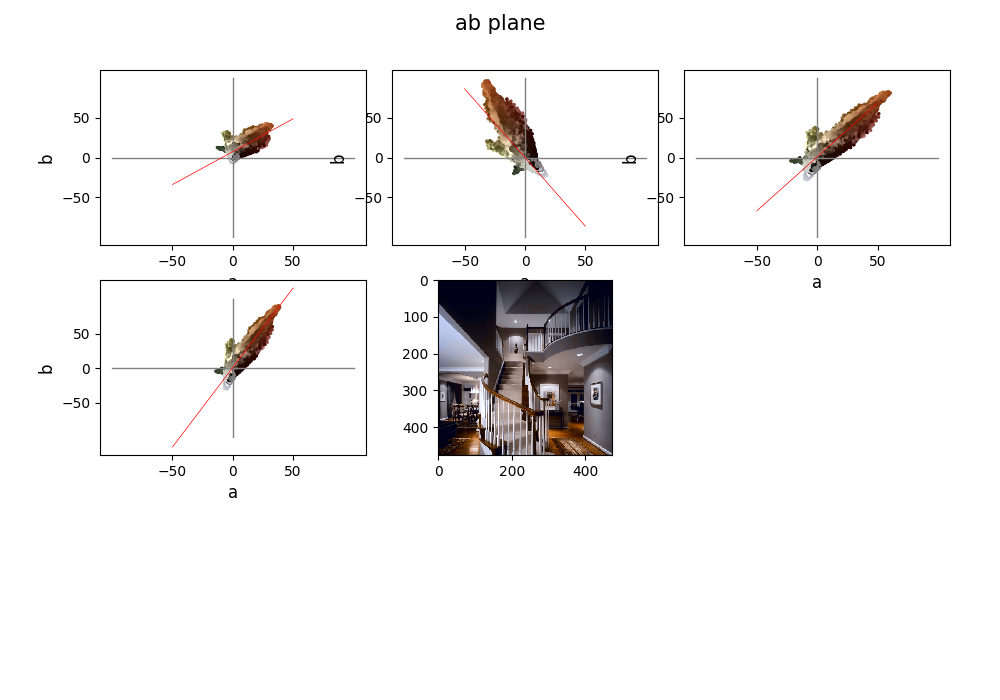
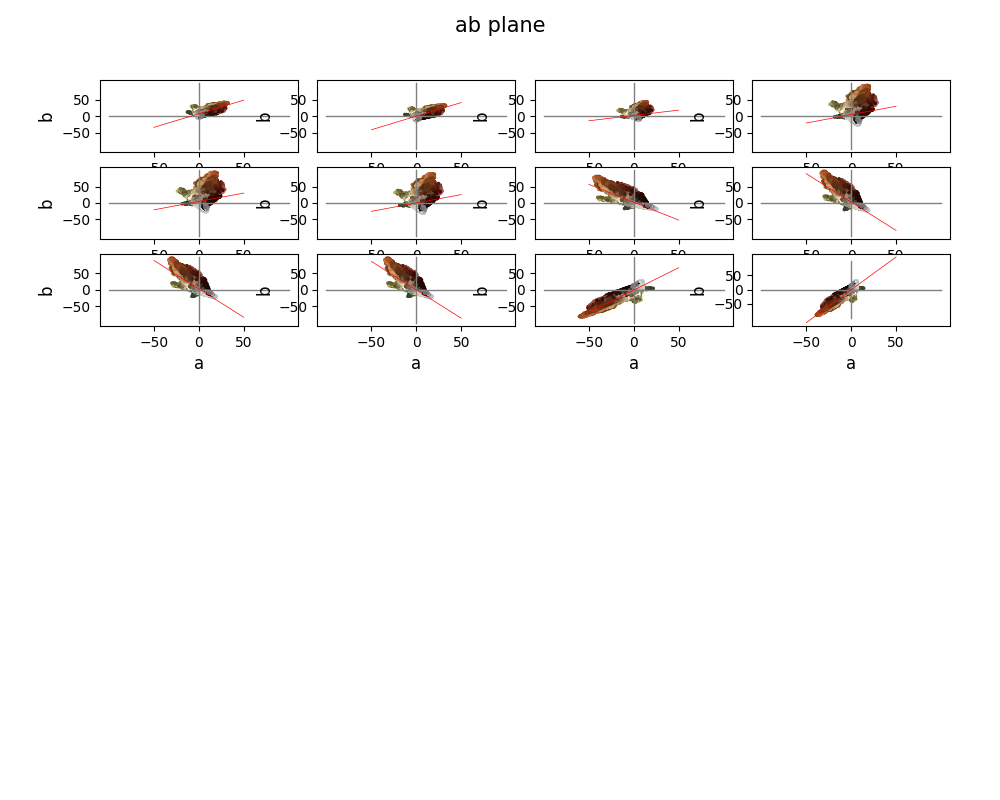
修复异常，正式1.0版

diff --git a/image/scatter.py b/image/scatter.py
@@ -1,6 +1,7 @@
 # -*- coding: utf-8 -*-
 
 import cv2
+import math
 import os
 import numpy as np
 import matplotlib.pyplot as plt
@@ -115,7 +116,7 @@ def scatterImage(image_file, sourceFile, sourceCoef, sourceWidth, sourceHeight):
     global circle
     circle = 0
 
-    fig = plt.figure(figsize=(10, 7))
+    fig = plt.figure(figsize=(10, 8))
     fig.subplots_adjust(left=0.1, bottom=0.05, right=0.95, top=0.9, wspace=0.1, hspace=0.2)
     font_size = 15
     fig.suptitle("ab plane", fontsize=font_size)
@@ -140,21 +141,22 @@ def scatterImage(image_file, sourceFile, sourceCoef, sourceWidth, sourceHeight):
         sMatrix, sLab = scaling(rMatrix, sourceWidth, sourceHeight)
         intercept4, coef_4 = LR(sLab)
 
-        # abplane = fig.add_subplot(HOLD0, HOLD1, HOLD1 * circle + 1)
-        # # 不再使用旧的lab，在循环中被污染
-        # # intercept_temp, coef_temp = LR(convert2LabRGB(image)[0])
-        # plot2D(abplane, lab, rgb, intercept, coef_)
-        #
-        # abplane = fig.add_subplot(HOLD0, HOLD1, HOLD1 * circle + 2)
-        # plot2D(abplane, tLab, rgb, intercept2, coef_2)
-        #
-        # abplane = fig.add_subplot(HOLD0, HOLD1, HOLD1 * circle + 3)
-        # plot2D(abplane, rLab, rgb, intercept3, coef_3)
-        #
-        # abplane = fig.add_subplot(HOLD0, HOLD1, HOLD1 * circle + 4)
-        # plot2D(abplane, sLab, rgb, intercept4, coef_4)
+        abplane = fig.add_subplot(HOLD0, HOLD1, HOLD1 * circle + 1)
+        # 不再使用旧的lab，在循环中被污染
+        # intercept_temp, coef_temp = LR(convert2LabRGB(image)[0])
+        plot2D(abplane, lab, rgb, intercept, coef_)
+
+        abplane = fig.add_subplot(HOLD0, HOLD1, HOLD1 * circle + 2)
+        plot2D(abplane, tLab, rgb, intercept2, coef_2)
+
+        abplane = fig.add_subplot(HOLD0, HOLD1, HOLD1 * circle + 3)
+        plot2D(abplane, rLab, rgb, intercept3, coef_3)
+
+        abplane = fig.add_subplot(HOLD0, HOLD1, HOLD1 * circle + 4)
+        plot2D(abplane, sLab, rgb, intercept4, coef_4)
 
         circle += 1
+        lab = sLab
 
         if (np.abs(np.arctan(sourceCoef) - np.arctan(coef_4)) * 180 / 3.1415926) < 1:
             print 'finish'
@@ -163,22 +165,22 @@ def scatterImage(image_file, sourceFile, sourceCoef, sourceWidth, sourceHeight):
         # print sLab
         print '444'
 
-        lab = sLab
 
 
-    abplane = fig.add_subplot(331)
-    # 不再使用旧的lab，在循环中被污染
-    intercept_temp, coef_temp = LR(convert2LabRGB(image)[0])
-    plot2D(abplane, convert2LabRGB(image)[0], rgb, intercept_temp, coef_temp)
 
-    abplane = fig.add_subplot(332)
-    plot2D(abplane, tLab, rgb, intercept2, coef_2)
-
-    abplane = fig.add_subplot(333)
-    plot2D(abplane, rLab, rgb, intercept3, coef_3)
-
-    abplane = fig.add_subplot(334)
-    plot2D(abplane, sLab, rgb, intercept4, coef_4)
+    # abplane = fig.add_subplot(331)
+    # # 不再使用旧的lab，在循环中被污染
+    # intercept_temp, coef_temp = LR(convert2LabRGB(image)[0])
+    # plot2D(abplane, convert2LabRGB(image)[0], rgb, intercept_temp, coef_temp)
+    #
+    # abplane = fig.add_subplot(332)
+    # plot2D(abplane, tLab, rgb, intercept2, coef_2)
+    #
+    # abplane = fig.add_subplot(333)
+    # plot2D(abplane, rLab, rgb, intercept3, coef_3)
+    #
+    # abplane = fig.add_subplot(334)
+    # plot2D(abplane, sLab, rgb, intercept4, coef_4)
 
 
     #映射图片
@@ -254,8 +256,8 @@ def scatterImage(image_file, sourceFile, sourceCoef, sourceWidth, sourceHeight):
             # node_image[i,j,1] = newLab[position, 1]
             # node_image[i,j,2] = newLab[position, 2]
 
-    plt.subplot(335)
-    plt.imshow(cv2.cvtColor(np.float32(node_image), cv2.COLOR_LAB2RGB) )
+    # plt.subplot(335)
+    # plt.imshow(cv2.cvtColor(np.float32(node_image), cv2.COLOR_LAB2RGB) )
 
     #显示平移后的原图AB图
     # 舍弃
@@ -341,10 +343,10 @@ def rotation(tMatrix, coef_, targetCoef):
     print np.arctan(coef_) * 180 / 3.1415926
     print theta * 180 / 3.1415926
 
-    if theta * 180 / 3.1415926 > 90:
-        theta = (theta * 180 / 3.1415926 - 180) / 180 * 3.1415926
-    if theta * 180 / 3.1415926 < -90:
-        theta = (theta * 180 / 3.1415926 + 180) / 180 * 3.1415926
+    while theta < 0:
+        theta += math.pi
+    while theta > math.pi:
+        theta -= math.pi
 
 
 
@@ -369,8 +371,8 @@ def rotation(tMatrix, coef_, targetCoef):
     return resultMatrix, resultLab
 
 def scaling(rMatrix, targetW, targetH):
-    width = np.max(rMatrix[0, :]) - np.min(rMatrix[0, :])
-    height = np.max(rMatrix[1, :]) - np.min(rMatrix[1, :])
+    width = np.max(rMatrix[0, :]) - np.min(rMatrix[0, :]) + 1
+    height = np.max(rMatrix[1, :]) - np.min(rMatrix[1, :]) + 1
 
     S = np.mat(np.zeros((2,2)))
     S[0, 0] = targetW / width
